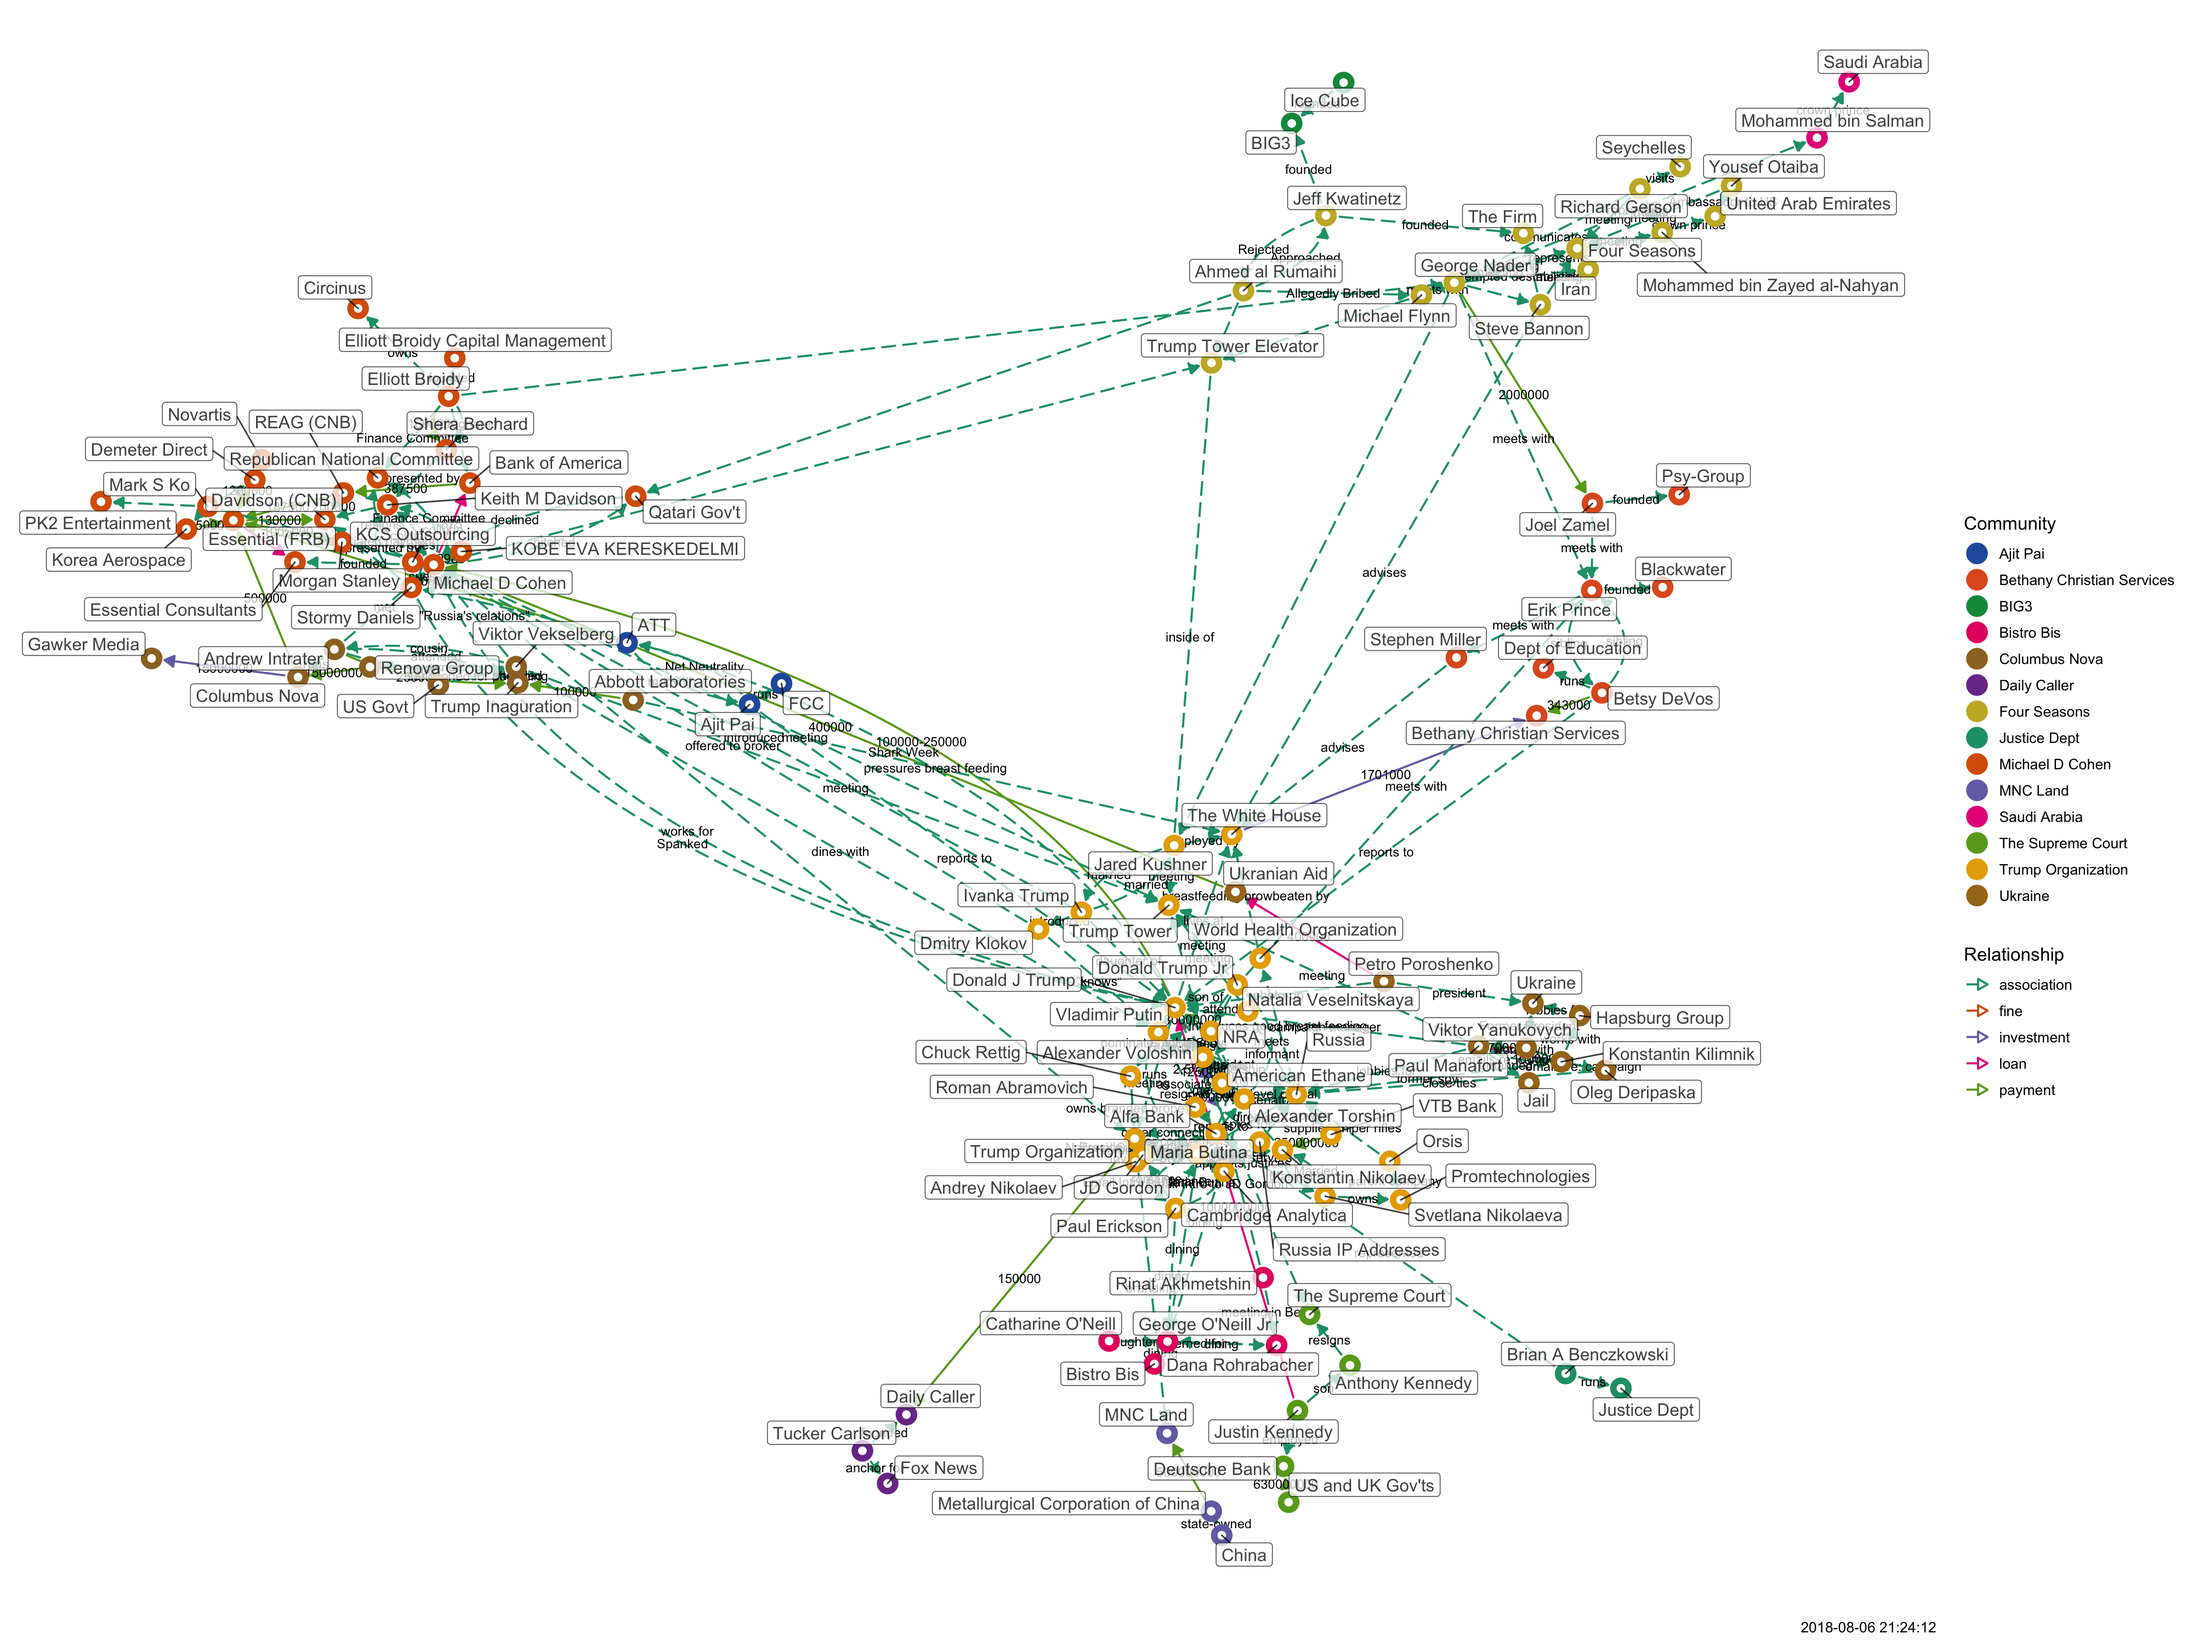
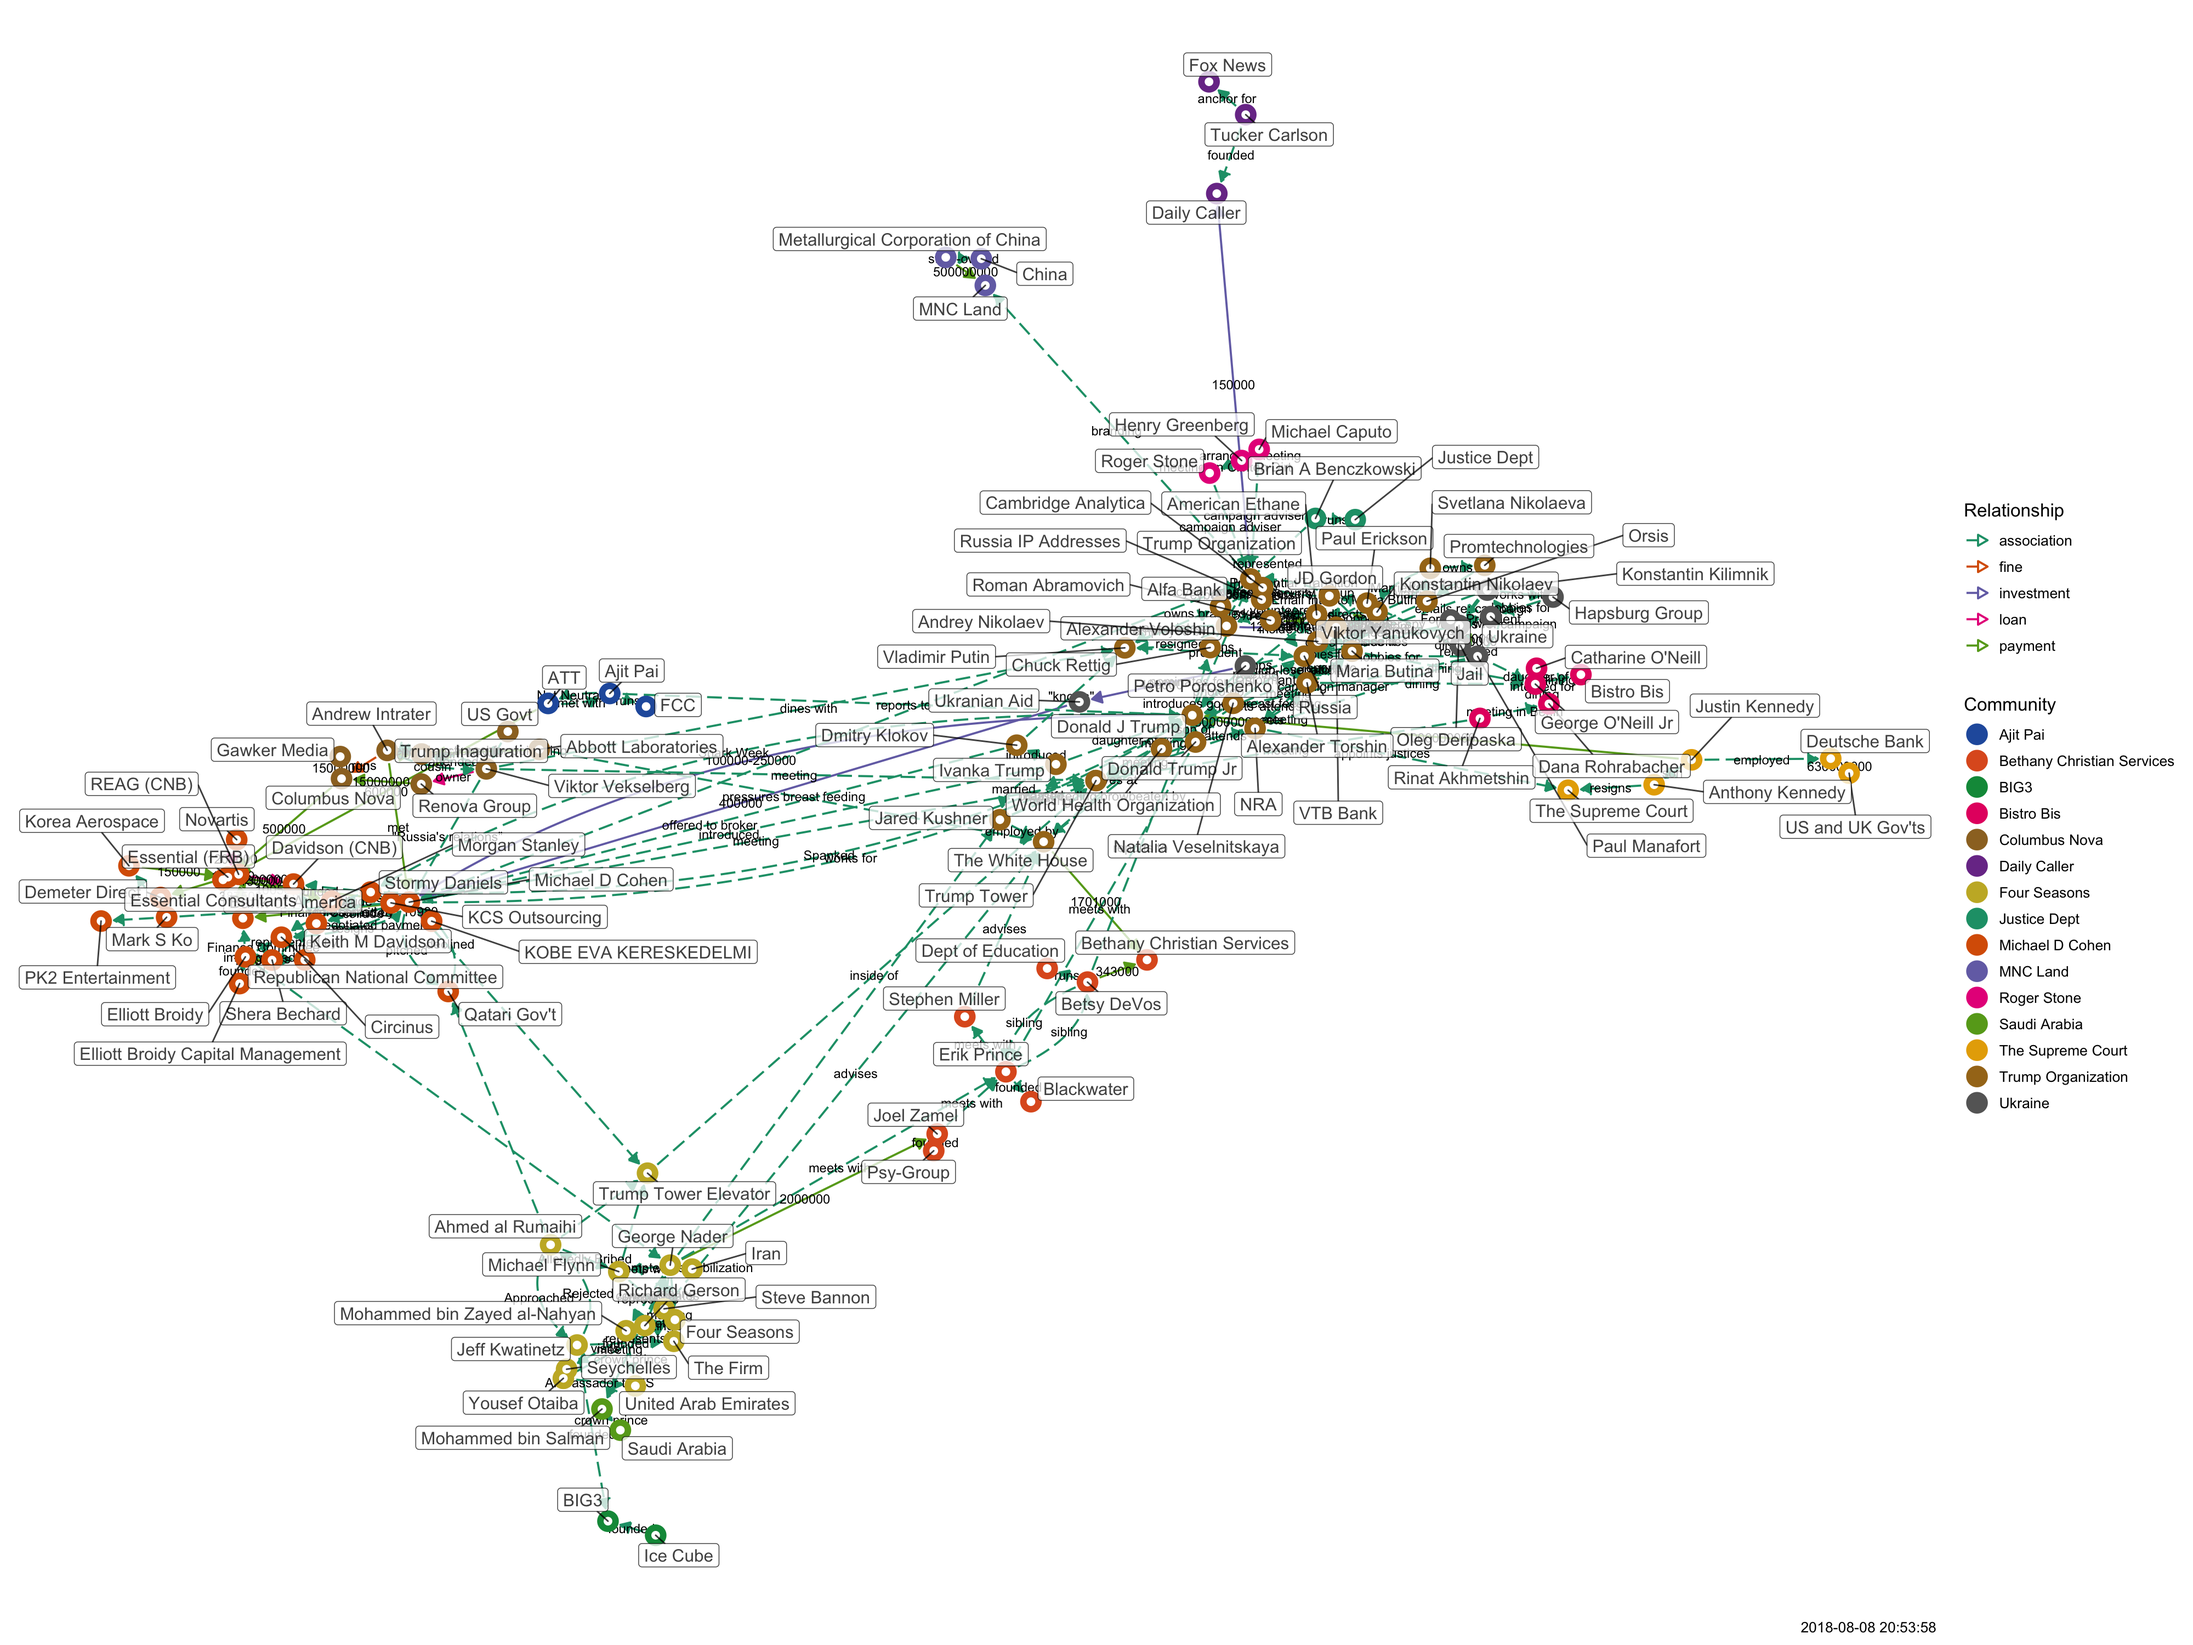
updated

diff --git a/docs/tangled-d3.html b/docs/tangled-d3.html
@@ -1143,11 +1143,11 @@ return function(){for(var n=0,e=0;e<t;++e)n+=Math.random();return n}},um=functio
 </head>
 <body style="background-color: white;">
 <div id="htmlwidget_container">
-<div id="htmlwidget-f7788b38245620d39908" class="forceNetwork html-widget" style="width:960px;height:500px;">
+<div id="htmlwidget-4a8c3ca96cf07145a3a7" class="forceNetwork html-widget" style="width:960px;height:500px;">
 
 </div>
 </div>
-<script type="application/json" data-for="htmlwidget-f7788b38245620d39908">{"x":{"links":{"source":[0,1,2,3,4,5,6,6,7,8,9,9,9,10,11,12,13,14,15,16,17,18,19,20,21,21,22,23,24,25,26,27,28,29,9,16,2,2,30,2,30,30,2,31,16,32,33,33,30,8,8,8,8,16,7,7,33,16,16,34,34,34,34,7,16,35,36,36,37,38,37,37,39,36,36,40,40,40,3,39,8,10,10,41,41,42,42,16,43,44,44,10,45,46,47,10,10,48,49,47,50,46,10,10,45,47,5,5,5,25,15,20,20,16,30,30,51,52,52,52,52,10,49,35,39,53,53,42,42,54,54,33,33,16,32,55,56,55,57,58,57,55,57,57,45,41,59,60,60,28,19,57,55,7,61,16,62,11,11,7,0,63,64,7,1,1,65,23,66,66,58,67,25,68,69,69,70,7,70,70,71,70,72,71,45,45,71,71,71,70,73,72,74,74,59,75,8,76,32,77,77,77,72,72,77,78,78,79,79,80,81,81,78,82,64],"target":[83,65,83,9,21,84,9,85,16,76,86,87,88,46,7,16,16,9,89,4,9,7,57,26,86,9,6,65,84,90,16,91,57,78,92,92,6,16,22,30,2,83,83,30,7,86,86,32,58,93,94,95,4,88,24,33,7,25,93,87,96,16,14,25,51,51,51,37,36,97,98,97,98,43,35,3,7,99,40,24,10,39,41,24,42,41,7,43,16,90,100,47,47,47,101,49,48,102,103,50,24,104,35,105,7,5,47,106,7,89,107,7,108,109,109,16,109,110,49,10,111,111,111,111,111,111,103,16,54,16,58,32,16,32,16,56,108,57,64,64,7,64,112,109,109,109,109,109,64,108,64,55,19,61,25,93,113,62,91,113,24,24,63,65,58,58,1,65,67,114,67,25,67,25,68,64,7,70,64,71,64,72,70,45,71,18,18,64,75,75,75,75,75,73,73,115,76,32,16,70,25,25,70,77,70,70,79,78,82,64,78,25,65,80,29],"colour":["red","blue","red","red","red","red","red","blue","red","red","red","red","red","red","blue","red","red","red","blue","red","red","blue","blue","red","red","red","blue","blue","red","red","red","blue","red","blue","blue","blue","blue","blue","blue","blue","blue","blue","blue","blue","blue","blue","blue","blue","blue","blue","blue","blue","blue","blue","blue","blue","blue","blue","blue","blue","blue","blue","blue","blue","blue","blue","blue","blue","blue","blue","blue","blue","blue","blue","blue","blue","blue","blue","blue","blue","blue","blue","blue","blue","blue","blue","blue","blue","blue","blue","blue","blue","blue","blue","blue","blue","blue","blue","blue","blue","blue","blue","blue","blue","blue","blue","blue","blue","blue","blue","blue","blue","blue","blue","blue","blue","blue","blue","blue","blue","blue","blue","blue","blue","blue","blue","blue","blue","blue","blue","blue","blue","blue","blue","blue","blue","blue","blue","blue","blue","blue","blue","blue","blue","blue","blue","blue","blue","blue","blue","blue","blue","blue","blue","blue","blue","blue","blue","blue","blue","blue","blue","blue","blue","blue","blue","blue","blue","blue","blue","blue","blue","blue","blue","blue","blue","blue","blue","blue","blue","blue","blue","blue","blue","blue","blue","blue","blue","blue","blue","blue","blue","blue","blue","blue","blue","blue","blue","blue","blue","blue","blue","blue","blue","blue","blue","blue","blue","blue","blue","blue","blue","blue","blue","blue"]},"nodes":{"name":["Abbott Laboratories","Alexander Voloshin","Andrew Intrater","ATT","Bank of America","Betsy DeVos","Columbus Nova","Donald J Trump","Elliott Broidy","Essential (FRB)","George Nader","Justin Kennedy","KCS Outsourcing","KOBE EVA KERESKEDELMI","Korea Aerospace","Metallurgical Corporation of China","Michael D Cohen","Novartis","NRA","Oleg Deripaska","Petro Poroshenko","REAG (CNB)","Renova Group","Roman Abramovich","The White House","Trump Organization","Ukranian Aid","US and UK Gov'ts","Viktor Yanukovych","VTB Bank","Viktor Vekselberg","US Govt","Keith M Davidson","Stormy Daniels","Mark S Ko","Michael Flynn","Ahmed al Rumaihi","Jeff Kwatinetz","Ice Cube","Steve Bannon","Ajit Pai","Jared Kushner","Ivanka Trump","Qatari Gov't","Tucker Carlson","Donald Trump Jr","Joel Zamel","Erik Prince","Mohammed bin Salman","Mohammed bin Zayed al-Nahyan","Stephen Miller","Trump Tower Elevator","Richard Gerson","Yousef Otaiba","Dmitry Klokov","Konstantin Kilimnik","Hapsburg Group","Paul Manafort","Vladimir Putin","Rinat Akhmetshin","Natalia Veselnitskaya","Chuck Rettig","Anthony Kennedy","World Health Organization","Russia","American Ethane","Brian A Benczkowski","Alfa Bank","Cambridge Analytica","Russia IP Addresses","Maria Butina","Alexander Torshin","Paul Erickson","Dana Rohrabacher","Catharine O'Neill","George O'Neill Jr","Shera Bechard","JD Gordon","Konstantin Nikolaev","Svetlana Nikolaeva","Orsis","Andrey Nikolaev","Promtechnologies","Trump Inaguration","Bethany Christian Services","Gawker Media","Davidson (CNB)","Demeter Direct","Morgan Stanley","MNC Land","Daily Caller","Deutsche Bank","Essential Consultants","Republican National Committee","Elliott Broidy Capital Management","Circinus","PK2 Entertainment","BIG3","The Firm","FCC","Fox News","Blackwater","Saudi Arabia","United Arab Emirates","Psy-Group","Iran","Dept of Education","China","Ukraine","Trump Tower","Seychelles","Four Seasons","Jail","The Supreme Court","Justice Dept","Bistro Bis"],"group":["6","1","6","11","2","5","6","1","2","2","3","7","2","2","2","9","2","2","1","4","4","2","6","1","1","1","4","7","4","1","6","6","2","2","2","3","3","3","14","3","11","1","1","2","10","1","5","5","12","3","5","3","3","3","1","4","4","4","1","8","1","1","7","1","1","1","13","1","1","1","1","1","1","8","8","8","2","1","1","1","1","1","1","6","5","6","2","2","2","9","10","7","2","2","2","2","2","14","3","11","10","5","12","3","5","3","5","9","4","1","3","3","4","7","13","8"]},"options":{"NodeID":"name","Group":"group","colourScale":"d3.scaleOrdinal(d3.schemeCategory20);","fontSize":20,"fontFamily":"serif","clickTextSize":50,"linkDistance":50,"linkWidth":"function(d) { return Math.sqrt(d.value); }","charge":-100,"opacity":1,"zoom":true,"legend":false,"arrows":false,"nodesize":false,"radiusCalculation":" Math.sqrt(d.nodesize)+6","bounded":false,"opacityNoHover":1,"clickAction":null}},"evals":[],"jsHooks":[]}</script>
-<script type="application/htmlwidget-sizing" data-for="htmlwidget-f7788b38245620d39908">{"viewer":{"width":450,"height":350,"padding":10,"fill":true},"browser":{"width":960,"height":500,"padding":10,"fill":true}}</script>
+<script type="application/json" data-for="htmlwidget-4a8c3ca96cf07145a3a7">{"x":{"links":{"source":[0,1,2,3,4,5,6,6,7,8,9,9,9,10,11,12,13,14,15,16,17,18,19,20,21,21,22,23,24,25,26,27,28,29,9,16,2,2,30,2,30,30,2,31,16,32,33,33,30,8,8,8,8,16,7,7,33,16,16,34,34,34,34,7,16,35,36,36,37,38,37,37,39,36,36,40,40,40,3,39,8,10,10,41,41,42,42,16,43,44,44,10,45,46,47,10,10,48,49,47,50,46,10,10,45,47,5,5,5,25,15,20,20,16,30,30,51,52,52,52,52,10,49,35,39,53,53,42,42,54,54,33,33,16,32,55,56,55,57,58,57,55,57,57,45,41,59,60,60,28,19,57,55,7,61,16,62,11,11,7,0,63,64,7,1,1,65,23,66,66,58,67,25,68,69,69,70,7,70,70,71,70,72,71,45,45,71,71,71,70,73,72,74,74,59,75,8,76,32,77,77,77,72,72,77,78,78,79,79,80,81,81,78,82,64,83,84,83,85],"target":[86,65,86,9,21,87,9,88,16,76,89,90,91,46,7,16,16,9,92,4,9,7,57,26,89,9,6,65,87,93,16,94,57,78,95,95,6,16,22,30,2,86,86,30,7,89,89,32,58,96,97,98,4,91,24,33,7,25,96,90,99,16,14,25,51,51,51,37,36,100,101,100,101,43,35,3,7,102,40,24,10,39,41,24,42,41,7,43,16,93,103,47,47,47,104,49,48,105,106,50,24,107,35,108,7,5,47,109,7,92,110,7,111,112,112,16,112,113,49,10,114,114,114,114,114,114,106,16,54,16,58,32,16,32,16,56,111,57,64,64,7,64,115,112,112,112,112,112,64,111,64,55,19,61,25,96,116,62,94,116,24,24,63,65,58,58,1,65,67,117,67,25,67,25,68,64,7,70,64,71,64,72,70,45,71,18,18,64,75,75,75,75,75,73,73,118,76,32,16,70,25,25,70,77,70,70,79,78,82,64,78,25,65,80,29,84,85,25,25],"colour":["red","blue","red","red","red","red","red","blue","red","red","red","red","red","red","blue","red","red","red","blue","red","red","blue","blue","red","red","red","blue","blue","red","red","red","blue","red","blue","blue","blue","blue","blue","blue","blue","blue","blue","blue","blue","blue","blue","blue","blue","blue","blue","blue","blue","blue","blue","blue","blue","blue","blue","blue","blue","blue","blue","blue","blue","blue","blue","blue","blue","blue","blue","blue","blue","blue","blue","blue","blue","blue","blue","blue","blue","blue","blue","blue","blue","blue","blue","blue","blue","blue","blue","blue","blue","blue","blue","blue","blue","blue","blue","blue","blue","blue","blue","blue","blue","blue","blue","blue","blue","blue","blue","blue","blue","blue","blue","blue","blue","blue","blue","blue","blue","blue","blue","blue","blue","blue","blue","blue","blue","blue","blue","blue","blue","blue","blue","blue","blue","blue","blue","blue","blue","blue","blue","blue","blue","blue","blue","blue","blue","blue","blue","blue","blue","blue","blue","blue","blue","blue","blue","blue","blue","blue","blue","blue","blue","blue","blue","blue","blue","blue","blue","blue","blue","blue","blue","blue","blue","blue","blue","blue","blue","blue","blue","blue","blue","blue","blue","blue","blue","blue","blue","blue","blue","blue","blue","blue","blue","blue","blue","blue","blue","blue","blue","blue","blue","blue","blue","blue","blue","blue","blue","blue","blue","blue","blue","blue","blue","blue","blue","blue"]},"nodes":{"name":["Abbott Laboratories","Alexander Voloshin","Andrew Intrater","ATT","Bank of America","Betsy DeVos","Columbus Nova","Donald J Trump","Elliott Broidy","Essential (FRB)","George Nader","Justin Kennedy","KCS Outsourcing","KOBE EVA KERESKEDELMI","Korea Aerospace","Metallurgical Corporation of China","Michael D Cohen","Novartis","NRA","Oleg Deripaska","Petro Poroshenko","REAG (CNB)","Renova Group","Roman Abramovich","The White House","Trump Organization","Ukranian Aid","US and UK Gov'ts","Viktor Yanukovych","VTB Bank","Viktor Vekselberg","US Govt","Keith M Davidson","Stormy Daniels","Mark S Ko","Michael Flynn","Ahmed al Rumaihi","Jeff Kwatinetz","Ice Cube","Steve Bannon","Ajit Pai","Jared Kushner","Ivanka Trump","Qatari Gov't","Tucker Carlson","Donald Trump Jr","Joel Zamel","Erik Prince","Mohammed bin Salman","Mohammed bin Zayed al-Nahyan","Stephen Miller","Trump Tower Elevator","Richard Gerson","Yousef Otaiba","Dmitry Klokov","Konstantin Kilimnik","Hapsburg Group","Paul Manafort","Vladimir Putin","Rinat Akhmetshin","Natalia Veselnitskaya","Chuck Rettig","Anthony Kennedy","World Health Organization","Russia","American Ethane","Brian A Benczkowski","Alfa Bank","Cambridge Analytica","Russia IP Addresses","Maria Butina","Alexander Torshin","Paul Erickson","Dana Rohrabacher","Catharine O'Neill","George O'Neill Jr","Shera Bechard","JD Gordon","Konstantin Nikolaev","Svetlana Nikolaeva","Orsis","Andrey Nikolaev","Promtechnologies","Michael Caputo","Henry Greenberg","Roger Stone","Trump Inaguration","Bethany Christian Services","Gawker Media","Davidson (CNB)","Demeter Direct","Morgan Stanley","MNC Land","Daily Caller","Deutsche Bank","Essential Consultants","Republican National Committee","Elliott Broidy Capital Management","Circinus","PK2 Entertainment","BIG3","The Firm","FCC","Fox News","Blackwater","Saudi Arabia","United Arab Emirates","Psy-Group","Iran","Dept of Education","China","Ukraine","Trump Tower","Seychelles","Four Seasons","Jail","The Supreme Court","Justice Dept","Bistro Bis"],"group":["6","1","6","11","2","5","6","1","2","2","3","7","2","2","2","9","2","2","1","4","4","2","6","1","1","1","4","7","4","1","6","6","2","2","2","3","3","3","15","3","11","1","1","2","10","1","5","5","13","3","5","3","3","3","1","4","4","4","1","8","1","1","7","1","1","1","14","1","1","1","1","1","1","8","8","8","2","1","1","1","1","1","1","12","12","12","6","5","6","2","2","2","9","10","7","2","2","2","2","2","15","3","11","10","5","13","3","5","3","5","9","4","1","3","3","4","7","14","8"]},"options":{"NodeID":"name","Group":"group","colourScale":"d3.scaleOrdinal(d3.schemeCategory20);","fontSize":20,"fontFamily":"serif","clickTextSize":50,"linkDistance":50,"linkWidth":"function(d) { return Math.sqrt(d.value); }","charge":-100,"opacity":1,"zoom":true,"legend":false,"arrows":false,"nodesize":false,"radiusCalculation":" Math.sqrt(d.nodesize)+6","bounded":false,"opacityNoHover":1,"clickAction":null}},"evals":[],"jsHooks":[]}</script>
+<script type="application/htmlwidget-sizing" data-for="htmlwidget-4a8c3ca96cf07145a3a7">{"viewer":{"width":450,"height":350,"padding":10,"fill":true},"browser":{"width":960,"height":500,"padding":10,"fill":true}}</script>
 </body>
 </html>
